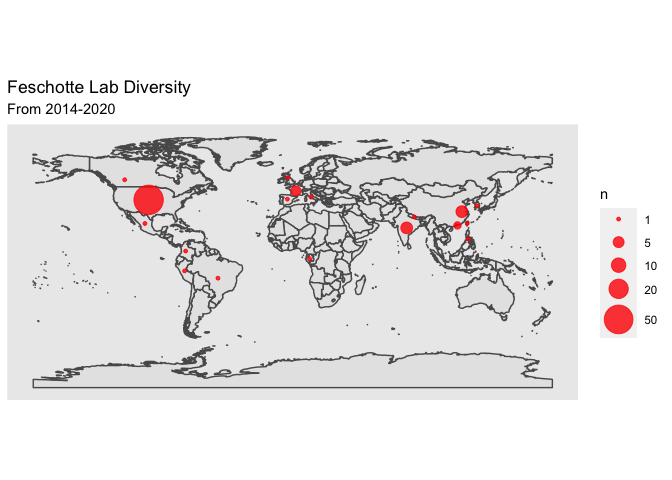
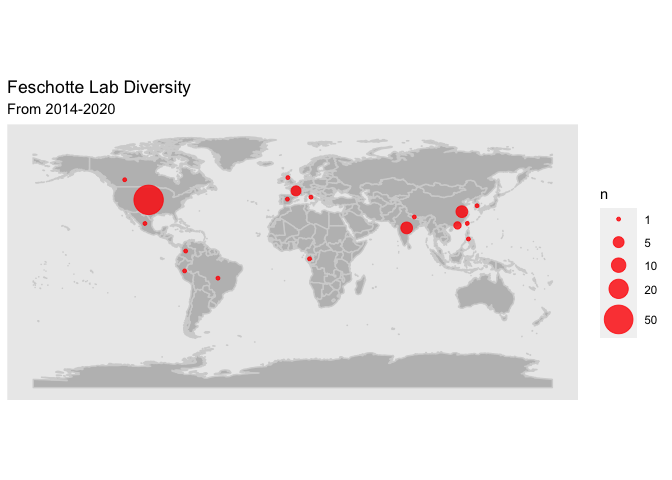
change border

diff --git a/world_map.md b/world_map.md
@@ -100,7 +100,7 @@ lab %>%
   group_by(Country,lat,long) %>% 
   summarize(n=n()) %>% 
   ggplot() +
-  geom_sf(data = world) +
+  geom_sf(data = world, color = "lightgrey", fill = "grey") +
   geom_point(aes(x=long, y=lat, size=n,color=6*n), color="red", fill="red", alpha=0.8, shape=21) +
   scale_size(range=c(1,10),breaks=c(1,5,10,20,50)) +
   labs(title= "Feschotte Lab Diversity", subtitle="From 2014-2020") +
